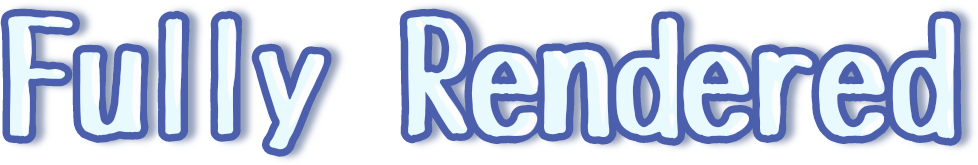
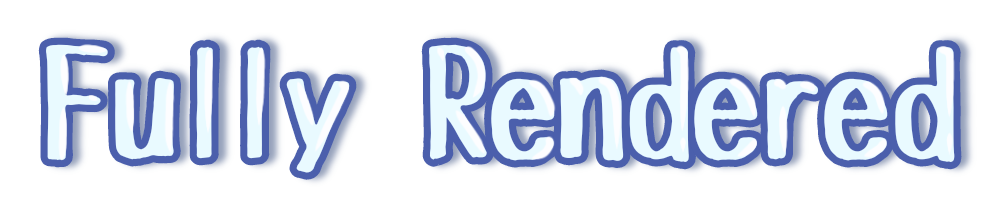
fix for mobile view

diff --git a/src/styles/global.css b/src/styles/global.css
@@ -795,6 +795,7 @@ h1 {
   display: flex;
   align-items: center;
   justify-content: center;
+  flex-wrap: wrap;
   gap: 14px;
   margin: 0 0 20px;
 }
@@ -803,6 +804,12 @@ h1 {
   display: block;
   height: 66px;
   width: auto;
+}
+@media (max-width: 480px) {
+  .comm-status-label,
+  .comm-status-value {
+    height: 46px;
+  }
 }
 
 /* one row per pricing tier — the sheet graphic covers one side, an
@@ -947,24 +954,6 @@ h1 {
 @keyframes baby-tilt {
   0%, 100% { transform: rotate(-8deg); }
   50% { transform: rotate(8deg); }
-}
-.comm-callout {
-  display: inline-block;
-  margin: 14px 0 4px;
-  padding: 10px 18px;
-  border-radius: 999px;
-  border: 1px solid var(--card-border);
-  background: var(--surface);
-  box-shadow: var(--shadow-soft);
-  color: var(--ink);
-  font-weight: 700;
-  font-size: 0.86rem;
-  text-decoration: none;
-  transition: transform 0.15s ease, box-shadow 0.15s ease;
-}
-.comm-callout:hover {
-  transform: translateY(-1px);
-  box-shadow: 0 8px 18px rgba(26, 18, 46, 0.28);
 }
 
 /* art gallery */
